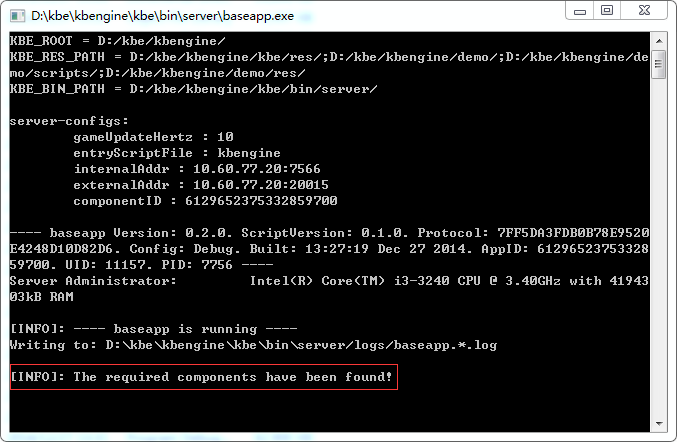
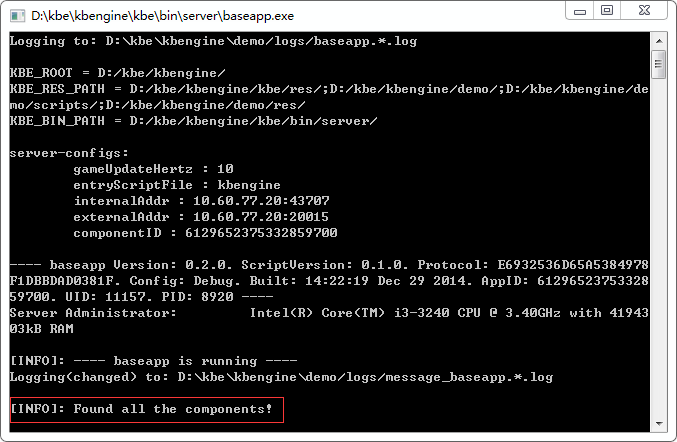
up

diff --git a/cn/docs/startup_shutdown.md b/cn/docs/startup_shutdown.md
@@ -56,7 +56,7 @@ docsitem: startup-shutdown
 
 <img class="screenshots-img" src="{{ site.baseurl }}/assets/img/screenshots/startup_status.png">
 
-	如果启动成功将会在日志中找到"Components::process(): The required components have been found!"。
+	如果启动成功将会在日志中找到"Components::process(): Found all the components!"。
 	任何其他情况请在日志中搜索"ERROR"关键字，根据错误描述尝试解决。
 
 	获得运行时日志: http://www.kbengine.org/cn/docs/documentations/getlogs.html

diff --git a/docs/startup_shutdown.md b/docs/startup_shutdown.md
@@ -56,7 +56,7 @@ Check the startup status(KBEngine > v0.2.15)
 
 <img class="screenshots-img" src="{{ site.baseurl }}/assets/img/screenshots/startup_status.png">
 
-	If successful will find log "Components::process(): The required components have been found!".
+	If successful will find log "Components::process(): Found all the components!".
 	Otherwise, please search the "ERROR" keyword in logs, according to the error description to try to solve.
 
 	get runtime logs: http://www.kbengine.org/docs/documentations/getlogs.html
